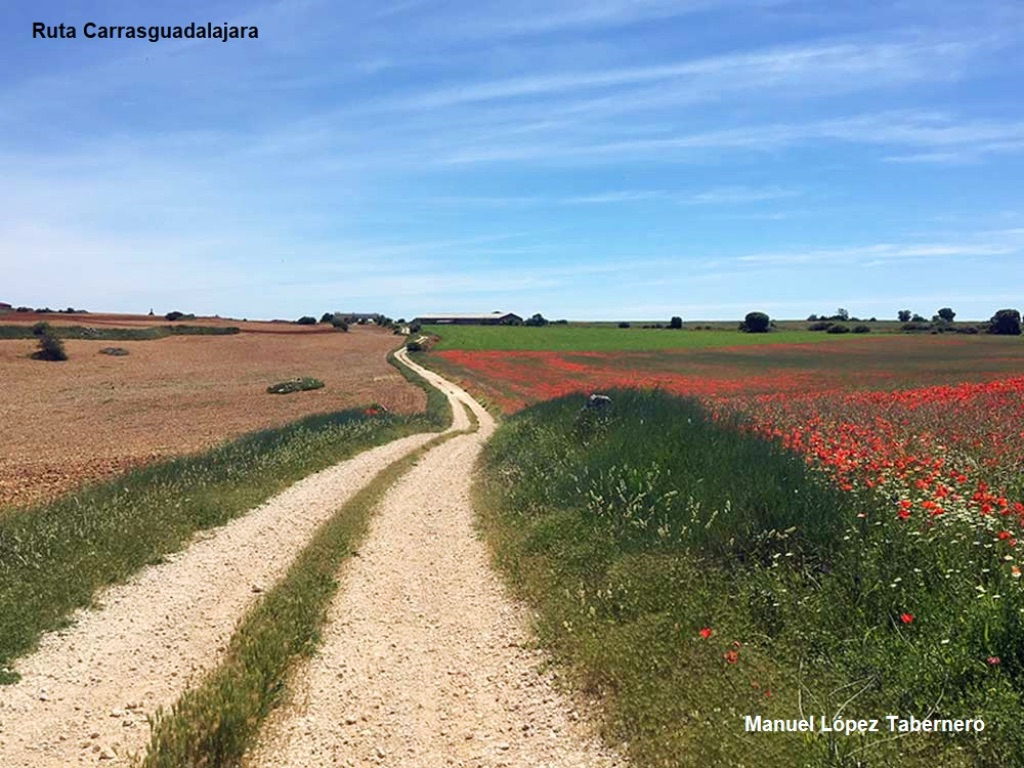
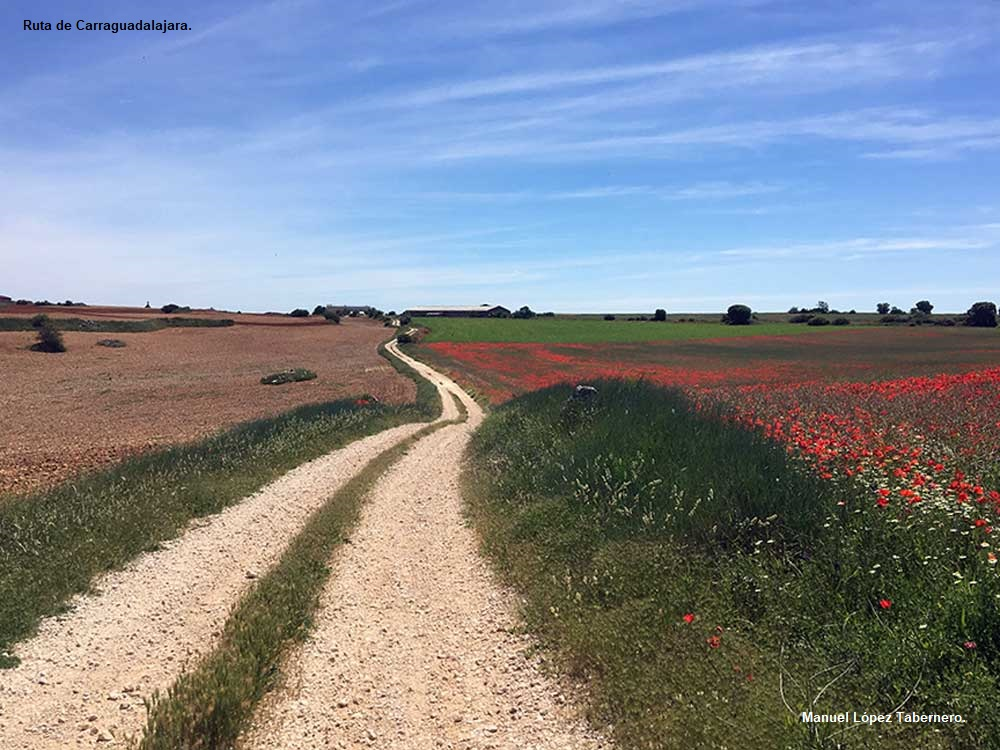
changes fuentelencina

diff --git a/site/fuentelencina/index.html b/site/fuentelencina/index.html
@@ -42,12 +42,40 @@
 
 
 <ul class="attachments">
-<li class="zoom"><a href="../images/fuentelencina/fuentelencina-ayuntamientodefuentelencina_porsolcasas.jpg" class="fancybox" rel="fancybox"><img src="../images/fuentelencina/fuentelencina-ayuntamientodefuentelencina_porsolcasas.jpg" width="240" height="160"/></a></li>
-<li class="zoom"><a href="../images/fuentelencina/fuentelencina-capitelesycolumnas_consistorio_porsolcasas.jpg" class="fancybox" rel="fancybox"><img src="../images/fuentelencina/fuentelencina-capitelesycolumnas_consistorio_porsolcasas.jpg" width="240" height="160"/></a></li>
-<li class="zoom"><a href="../images/fuentelencina/fuentelencina-capitelyzapatadelconsistorio_porsolcasas.jpg" class="fancybox" rel="fancybox"><img src="../images/fuentelencina/fuentelencina-capitelyzapatadelconsistorio_porsolcasas.jpg" width="240" height="160"/></a></li>
-<li class="zoom"><a href="../images/fuentelencina/fuentelencina-consistorio_febrero2021_2_porsolcasas.jpg" class="fancybox" rel="fancybox"><img src="../images/fuentelencina/fuentelencina-consistorio_febrero2021_2_porsolcasas.jpg" width="240" height="160"/></a></li>
-<li class="zoom"><a href="../images/fuentelencina/fuentelencina-consistorio_febrero2021_3_porsolcasas.jpg" class="fancybox" rel="fancybox"><img src="../images/fuentelencina/fuentelencina-consistorio_febrero2021_3_porsolcasas.jpg" width="240" height="160"/></a></li>
-<li class="zoom"><a href="../images/fuentelencina/fuentelencina-soportal_principal_consistorio_porsolcasas.jpg" class="fancybox" rel="fancybox"><img src="../images/fuentelencina/fuentelencina-soportal_principal_consistorio_porsolcasas.jpg" width="240" height="160"/></a></li>
+    
+    
+    <li>
+          <a data-fslightbox="demo-images" href="../images/fuentelencina/fuentelencina-consistorio_febrero2021_2_porsolcasas.jpg">
+            <img class="img" width="240" src="../images/fuentelencina/fuentelencina-consistorio_febrero2021_2_porsolcasas.jpg" alt="">
+          </a>
+        </li>				
+                        
+    
+    <li>
+          <a data-fslightbox="demo-images" href="../images/fuentelencina/fuentelencina-ayuntamientodefuentelencina_porsolcasas.jpg">
+            <img class="img" width="240" src="../images/fuentelencina/fuentelencina-ayuntamientodefuentelencina_porsolcasas.jpg" alt="">
+          </a>
+        </li>				
+                        
+                        <li>
+                              <a data-fslightbox="demo-images" href="../images/fuentelencina/fuentelencina-capitelesycolumnas_consistorio_porsolcasas.jpg">
+                                <img class="img" width="240" src="../images/fuentelencina/fuentelencina-capitelesycolumnas_consistorio_porsolcasas.jpg" alt="">
+                              </a>
+                            </li>				
+                                            
+<li>
+      <a data-fslightbox="demo-images" href="../images/fuentelencina/fuentelencina-capitelyzapatadelconsistorio_porsolcasas.jpg">
+        <img class="img" width="240" src="../images/fuentelencina/fuentelencina-capitelyzapatadelconsistorio_porsolcasas.jpg" alt="">
+      </a>
+    </li>				
+                    		
+                                        
+<li>
+      <a data-fslightbox="demo-images" href="../images/fuentelencina/fuentelencina-soportal_principal_consistorio_porsolcasas.jpg">
+        <img class="img" width="240" src="../images/fuentelencina/fuentelencina-soportal_principal_consistorio_porsolcasas.jpg" alt="">
+      </a>
+    </li>				
+                    
     
 </ul>
 
@@ -58,16 +86,31 @@
 <p>Dedicada a Ntra. Sra. de la Asunción, de mediados del siglo XVI. Fue declarado de Bien de Interés Cultural (BIC), con categoría de monumento el 28 de mayo de 2002. El templo está construido de sillarejo y sillar en esquinas y contrafuertes. El templo en su interior se compone de tres naves, dividido por gruesos pilares con contrafuertes en el exterior, de los que arrancan arcos de medio punto. Lo más destacable es su gran retablo mayor, de estilo plateresco, con numerosas pinturas y esculturas renacentistas. El retablo está considerado como uno de los mejores de la Alcarria, se cree en el presente que fue realizado por Francisco Giralte, aventajado discípulo de Alonso Berruguete que trabajó en Castilla entre los años 1547 1576. </p>
 
 <ul class="attachments">
+<li>
+      <a data-fslightbox="demo-images" href="../images/fuentelencina/fuentelencina-retablodelaiglesiadelaasuncion_pormanuellopeztabernero.jpg">
+        <img class="img" width="240" src="../images/fuentelencina/fuentelencina-retablodelaiglesiadelaasuncion_pormanuellopeztabernero.jpg" alt="">
+      </a>
+    </li>				
+                    
+ <li>
+       <a data-fslightbox="demo-images" href="../images/fuentelencina/fuentelencina-escudo_en_el_zocalo_retablodelaiglesiadelaasuncion_pormanuellopeztabernero.jpg">
+         <img class="img" width="240" src="../images/fuentelencina/fuentelencina-escudo_en_el_zocalo_retablodelaiglesiadelaasuncion_pormanuellopeztabernero.jpg" alt="">
+       </a>
+     </li>				
+                     <li>
+                           <a data-fslightbox="demo-images" href="../images/fuentelencina/fuentelencina-iglesiadelaasuncion_febrero2021_porsolcasas_buena.jpg">
+                             <img class="img" width="240" src="../images/fuentelencina/fuentelencina-iglesiadelaasuncion_febrero2021_porsolcasas_buena.jpg" alt="">
+                           </a>
+                         </li>				
+                                         
+<li>
+      <a data-fslightbox="demo-images" href="../images/fuentelencina/fuentelencina-iglesiadelaasuncion_partedeatras_febrero2021porsolcasas_buena.jpg">
+        <img class="img" width="240" src="../images/fuentelencina/fuentelencina-iglesiadelaasuncion_partedeatras_febrero2021porsolcasas_buena.jpg" alt="">
+      </a>
+    </li>				
+                    
 
-<li class="zoom"><a href="../images/fuentelencina/fuentelencina-procesiondelsantocristodelaagonia_porjosegarrido_buena.jpg" class="fancybox" rel="fancybox"><img src="../images/fuentelencina/fuentelencina-procesiondelsantocristodelaagonia_porjosegarrido_buena.jpg" width="240" height="160"/></a></li>
-    
-    
-<li class="zoom"><a href="../images/fuentelencina/fuentelencina-escudo_en_el_zocalo_retablodelaiglesiadelaasuncion_pormanuellopeztabernero.jpg" class="fancybox" rel="fancybox"><img src="../images/fuentelencina/fuentelencina-escudo_en_el_zocalo_retablodelaiglesiadelaasuncion_pormanuellopeztabernero.jpg" width="240" height="160"/></a></li>
-
-<li class="zoom"><a href="../images/fuentelencina/fuentelencina-iglesiadelaasuncion_febrero2021_porsolcasas_buena.jpg" class="fancybox" rel="fancybox"><img src="../images/fuentelencina/fuentelencina-iglesiadelaasuncion_febrero2021_porsolcasas_buena.jpg" width="240" height="160"/></a></li>
-<li class="zoom"><a href="../images/fuentelencina/fuentelencina-iglesiadelaasuncion_partedeatras_febrero2021porsolcasas_buena.jpg" class="fancybox" rel="fancybox"><img src="../images/fuentelencina/fuentelencina-iglesiadelaasuncion_partedeatras_febrero2021porsolcasas_buena.jpg" width="240" height="160"/></a></li>
-<li class="zoom"><a href="../images/fuentelencina/fuentelencina-retablodelaiglesiadelaasuncion_pormanuellopeztabernero.jpg" class="fancybox" rel="fancybox"><img src="../images/fuentelencina/fuentelencina-retablodelaiglesiadelaasuncion_pormanuellopeztabernero.jpg" width="240" height="160"/></a></li>
-
+                    
 </ul>
 <div class="clearer"></div>
 
@@ -116,6 +159,16 @@
     <li>Del 28 al 31 de agosto: Fiestas patronales en Honor a San Agustín. Encierros por las calles y por el campo.</li>
 </ul>
 
+<ul class="attachments">
+
+<li>
+      <a data-fslightbox="demo-images" href="../images/fuentelencina/fuentelencina-procesiondelsantocristodelaagonia_porjosegarrido_buena.jpg">
+        <img class="img" width="240" src="../images/fuentelencina/fuentelencina-procesiondelsantocristodelaagonia_porjosegarrido_buena.jpg" alt="">
+      </a>
+    </li>				
+
+</ul>
+<div class="clearer"></div>
 <h3>Personajes</h3>
 
 <ul>
@@ -134,14 +187,14 @@
 
 <ul>
     <li><b>Apartamentos Rurales “Los Parajes”</b><br />949 284 234 / 666 740 991<br /><a href="https://losparajes.es">https://losparajes.es</a><br />    </li>
-    <li><b>Apartamento Rural “San Agustín”</b><br />677 530 106 / 605 922 403<br /><a href="https://alojamientoruralsanagustin.com">https://alojamientoruralsanagustin.com</a><br />    </li>
-    <li>
-        <b>Alojamiento Rural San Agustín</b><br />    </li>
+    <li><b>Apartamento Rural “San Agustín”</b><br />677 530 106 / 605 922 403<br /><a href="https://alojamientoruralsanagustin.com">https://alojamientoruralsanagustin.com</a><br />    
+<a href="https://www.facebook.com/alojamientoruralsanagustin">Facebook</a></li>
+    
     <li><b>Alojamiento “Capricho Rural”</b><br />620 094 368<br /><a href="https://www.caprichorural.com">https://www.caprichorural.com</a><br />    </li>
     <li>
-        Restaurante “San Agustín”<br />C/ Fuente de Abajo, s/n.<br />949 284 556 / 661 360 713<br />    </li>
+        <b>Restaurante “San Agustín”</b><br />C/ Fuente de Abajo, s/n.<br />949 284 556 / 661 360 713<br />    </li>
     <li>
-        Restaurante-Bar Tapas “La Penúltima”<br />Edif. Servicios Múltiples, Plaza del Mediodía.<br />641 232 775<br />    </li>
+        <b>Restaurante-Bar Tapas “La Penúltima”</b><br />Edif. Servicios Múltiples, Plaza del Mediodía.<br />641 232 775<br />    </li>
     
     <li>
         <b>Bar Alcocer</b><br />        C/ San Agustín, 5.<br />949 284 225<br />    </li>

diff --git a/site/naturaleza-y-senderismo-fuentelencina/index.html b/site/naturaleza-y-senderismo-fuentelencina/index.html
@@ -87,7 +87,7 @@
 
 <p>Una larga Vega, que desemboca en el río Arlés, uno de los afluentes del río Tajo. Por toda la comarca podremos disfrutar de los amplios y despejados paisajes y del aire limpio y puro de toda esta zona de la Alcarria.</p>
 
-<p>Además, podremos evadirnos por unas horas del vértigo diario mientras paseamos por caminos, rodeados de encinas, pinos, almendros y olivos; o mientras contemplamos los campos de secano, sembrados de cereal o de girasol. Y todo esto, mientras nos invade la fragancia de las plantas aromáticas, como el romero, el tomillo o el espliego, con las que las abejas elaboran la afamada miel de la Alcarria. Una multitud de sensaciones que percibiremos mientras recorremos cualquiera de las tres rutas de senderismo: la ruta del Camino de la Vega <a href="../wp-content/uploads/2012/11/page10.pdf" title="Descargar el folleto en PDF: Fuentelencina, el camino de la Vega">Descargar PDF</a>, la <a href="https://fuentelencina.com/fuentelencina/senderismo-en-fuentelencina/carraguadalajara/">ruta de Carrasguadalajara</a> y la <a href="https://fuentelencina.com/fuentelencina/senderismo-en-fuentelencina/las-pozas-de-manolete/">ruta de Las Pozas de Manolete</a>, nombre dado a las pozas de agua donde el afamado torero se refrescaba en los veranos que pasaba en Fuentelencina con su amiga la actriz de cine Lupe Sino.
+<p>Además, podremos evadirnos por unas horas del vértigo diario mientras paseamos por caminos, rodeados de encinas, pinos, almendros y olivos; o mientras contemplamos los campos de secano, sembrados de cereal o de girasol. Y todo esto, mientras nos invade la fragancia de las plantas aromáticas, como el romero, el tomillo o el espliego, con las que las abejas elaboran la afamada miel de la Alcarria. Una multitud de sensaciones que percibiremos mientras recorremos cualquiera de las tres rutas de senderismo: la ruta del Camino de la Vega <a href="../wp-content/uploads/2012/11/page10.pdf" title="Descargar el folleto en PDF: Fuentelencina, el camino de la Vega">Descargar PDF</a>, la <a href="https://fuentelencina.com/fuentelencina/senderismo-en-fuentelencina/carraguadalajara/">ruta de Carraguadalajara</a> y la <a href="https://fuentelencina.com/fuentelencina/senderismo-en-fuentelencina/las-pozas-de-manolete/">ruta de Las Pozas de Manolete</a>, nombre dado a las pozas de agua donde el afamado torero se refrescaba en los veranos que pasaba en Fuentelencina con su amiga la actriz de cine Lupe Sino.
 
                         
         </div> <!-- #contenido -->
